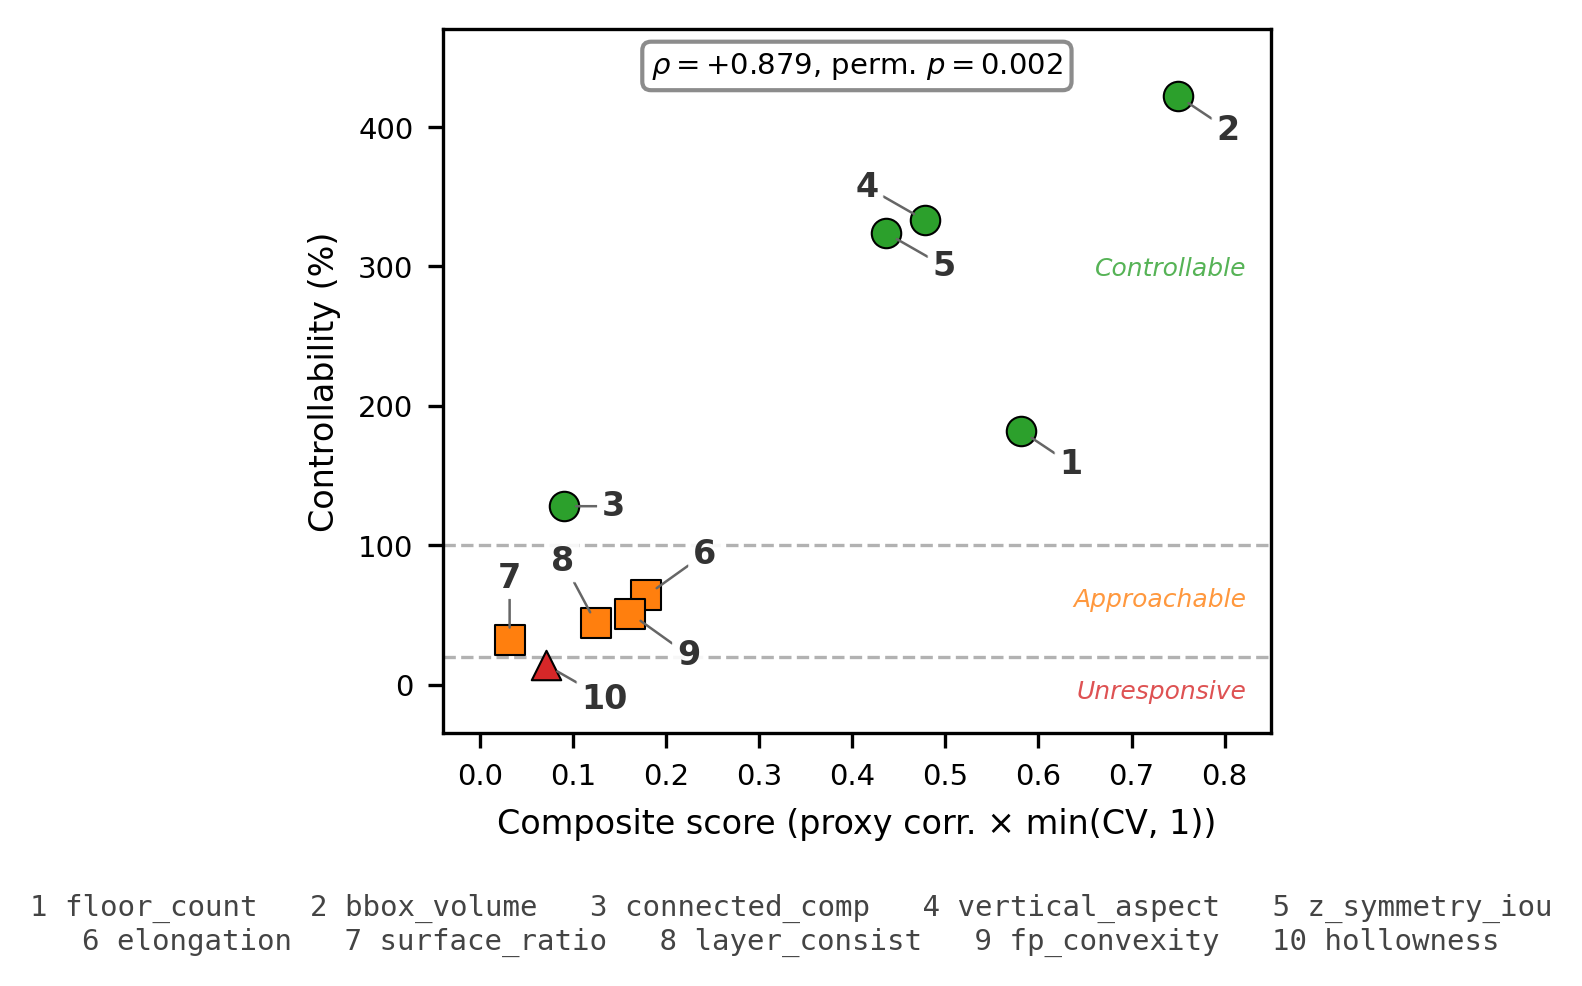
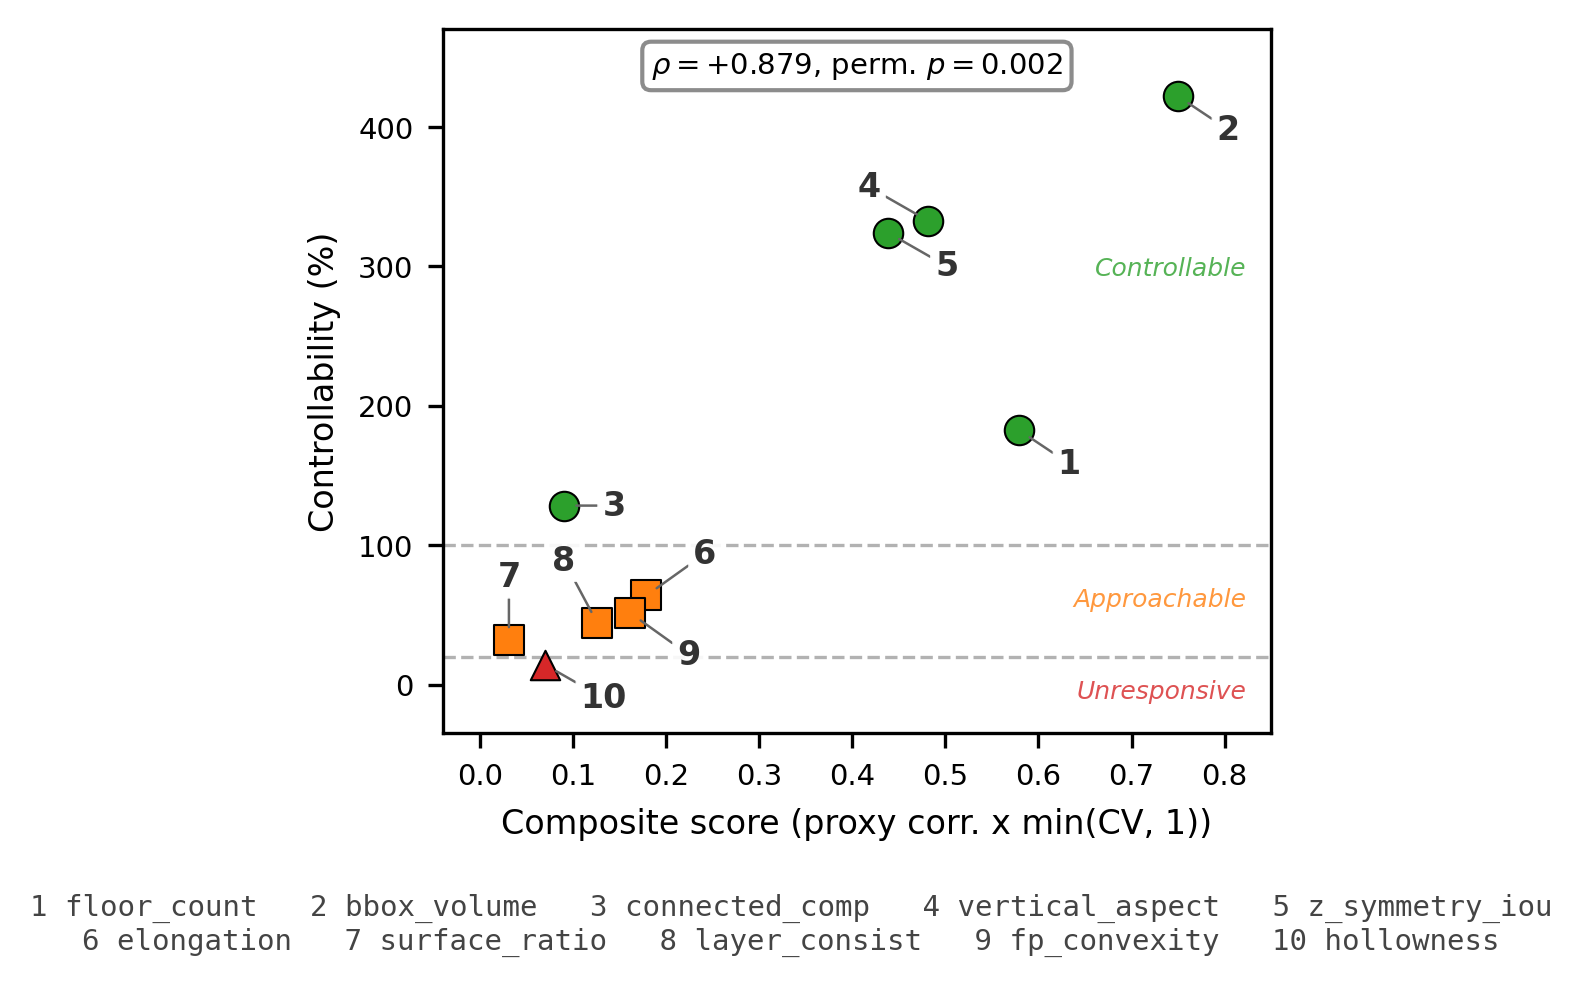
Sync camera-ready release results

diff --git a/scripts/regime_predictor.py b/scripts/regime_predictor.py
@@ -1,11 +1,11 @@
 """
-Regime Predictor: predict constraint learnability from pre-experiment features.
+Analyze how training-data features relate to constraint responsiveness.
 
-Given measurable properties of a constraint (training frequency, spatial locality,
-training variance), predict whether it will be CONTROLLABLE, APPROACHABLE, or
-UNRESPONSIVE — WITHOUT running generation experiments.
+The regime labels still come from generation experiments. The pre-generation
+features are used to test whether training signal and variation are associated
+with the observed response regimes.
 
-This transforms the regime map from a post-hoc taxonomy into a predictive framework.
+This keeps the predictor result as an association analysis rather than a deployable classifier.
 """
 
 import sys
@@ -35,7 +35,7 @@ def compute_predictor_features():
     Features:
       1. effective_frequency: How much training data supports the target condition?
          - Direct: % of data with target conditioning value
-         - Emergent: max |correlation with conditioned property| * that property's frequency
+         - Emergent: max |correlation with conditioned property| as a proxy signal
       2. locality_score: Spatial computation complexity (1=local, 2=semi-global, 3=global)
       3. training_cv: Coefficient of variation in training data
     """
@@ -123,7 +123,7 @@ def compute_predictor_features():
             _, _, count = direct_cond_map[p]
             effective_freq[p] = count / n_total
         else:
-            # Emergent: max |correlation| * correlated property's frequency
+            # Emergent: use the strongest observed proxy correlation as signal.
             max_eff = 0.0
             best_proxy = None
             for cp in conditioned_props:
@@ -200,11 +200,11 @@ def compute_predictor_features():
 
 def continuous_analysis(rows):
     """
-    Instead of predicting discrete regimes (overfits with n=7),
-    show that predictor features CONTINUOUSLY CORRELATE with controllability.
+    Instead of treating the result as a deployable discrete-regime classifier,
+    show that predictor features continuously correlate with controllability.
 
     This is the honest claim: signal strength and training variation jointly
-    predict WHERE a constraint falls on the controllability spectrum.
+    are associated with where a constraint falls on the controllability spectrum.
     The three regimes are descriptive labels for regions of this space.
     """
     print("\n" + "=" * 90)
@@ -347,7 +347,7 @@ def hierarchical_tree(rows):
     fundamentally different mechanisms, so the predictor should split on
     has_direct_cond first, then use the most relevant feature within each branch.
 
-    Direct branch:  frequency threshold -> CONTROLLABLE vs APPROACHABLE
+    Direct branch:  frequency threshold baseline on directly conditioned properties
     Emergent branch: training_cv + proxy_correlation -> CONTROLLABLE / APPROACHABLE / UNRESPONSIVE
     """
     print("\n" + "=" * 90)
@@ -371,10 +371,8 @@ def hierarchical_tree(rows):
     # ================================================================
     # Direct branch: find frequency threshold
     # ================================================================
-    # Sort by frequency: enclosure(0.024) < symmetry(0.039) < height(0.068) < n_blocks(0.117)
-    # APPROACHABLE: enclosure(0.024)
-    # CONTROLLABLE: symmetry(0.039), height(0.068), n_blocks(0.117)
-    # Threshold: between 0.024 and 0.039
+    # Sort by frequency: enclosure(0.024) < symmetry(0.039) < height(0.068) < n_blocks(0.117).
+    # All four are controllable in this experiment, so the threshold baseline is descriptive only.
 
     direct_freqs = sorted([(r["effective_frequency"], r["regime_idx"], r["property"]) for r in direct])
     print(f"\n  Direct properties sorted by frequency:")
@@ -674,9 +672,8 @@ The regime predictor uses a two-level hierarchy:
 
   Level 1: Does the property have a DIRECT conditioning signal?
 
-  YES (direct) -> split on TARGET FREQUENCY in training data
-    freq >= ~3%  -> CONTROLLABLE
-    freq <  ~3%  -> APPROACHABLE
+  YES (direct) -> target frequency baseline in training data
+    all four directly conditioned properties are CONTROLLABLE here
 
   NO (emergent) -> split on PROXY CORRELATION x TRAINING CV
     high correlation + sufficient CV -> CONTROLLABLE (strong proxy)
@@ -684,8 +681,8 @@ The regime predictor uses a two-level hierarchy:
     any correlation + low CV         -> UNRESPONSIVE (nothing to learn)
 
 Interpretation:
-  Controllability requires BOTH a learning signal AND learnable variation.
-  - Direct conditioning provides explicit signal (sufficient freq = controllable)
+  Responsiveness is associated with BOTH a learning signal AND learnable variation.
+  - Direct conditioning provides an explicit signal in this experiment
   - Without direct conditioning, the signal must come from correlation with
     conditioned properties, AND the property must actually vary in training data.
   - If training data is homogeneous for a property (low CV), the model has no
@@ -694,6 +691,11 @@ Interpretation:
 
     # Save results
     output = {
+        "metadata": {
+            "direct_frequency_source": "data/processed/structural_features.json; all 10,310 filtered builds",
+            "training_cv_source": "outputs/regime_map_results.json; fixed 200-build training sample",
+            "proxy_correlation_source": "outputs/regime_map_results.json; fixed 200-build training sample",
+        },
         "feature_table": rows,
         "correlations": {k: {kk: round(vv, 4) if isinstance(vv, float) else vv
                              for kk, vv in v.items()}

diff --git a/scripts/supplementary_analysis.py b/scripts/supplementary_analysis.py
@@ -199,16 +199,25 @@ def m1_threshold_sensitivity(regime, boot):
         marker = " <-- baseline" if u_t == 20 and c_t == 100 else ""
         print(f"  {u_t:>8} {c_t:>8} | {n_c:>3} {n_a:>3} {n_u:>3} | {', '.join(changed) if changed else '(none)'}{marker}")
 
-    # Also: CI-conservative classification
-    print(f"\n  CI-conservative classification (use CI lower bound for C, upper for U):")
-    n_conf_c = sum(1 for d in props_data.values() if d['ci_low'] > 100)
-    n_conf_u = sum(1 for d in props_data.values() if d['ci_high'] < 20)
-    n_borderline = 14 - n_conf_c - n_conf_u
+    # Also: CI-conservative classification.
+    print(f"\n  CI-conservative classification (CI lies entirely within one regime):")
+    n_conf_c = sum(1 for p, d in props_data.items() if p != 'enclosed_ratio' and d['regime'] == 'CONTROLLABLE' and d['ci_low'] > 100)
+    n_conf_a = sum(1 for p, d in props_data.items() if p != 'enclosed_ratio' and d['regime'] == 'APPROACHABLE' and d['ci_low'] >= 20 and d['ci_high'] <= 100)
+    n_conf_u = sum(1 for p, d in props_data.items() if p != 'enclosed_ratio' and d['regime'] == 'UNRESPONSIVE' and d['ci_high'] < 20)
+    n_borderline = 14 - n_conf_c - n_conf_a - n_conf_u
     print(f"    Confident CONTROLLABLE: {n_conf_c}")
+    print(f"    Confident APPROACHABLE: {n_conf_a}")
     print(f"    Confident UNRESPONSIVE: {n_conf_u}")
     print(f"    Borderline: {n_borderline}")
     borderline = [p for p, d in props_data.items()
-                  if not (d['ci_low'] > 100 or d['ci_high'] < 20)]
+                  if not (
+                      p != 'enclosed_ratio'
+                      and (
+                          (d['regime'] == 'CONTROLLABLE' and d['ci_low'] > 100)
+                          or (d['regime'] == 'APPROACHABLE' and d['ci_low'] >= 20 and d['ci_high'] <= 100)
+                          or (d['regime'] == 'UNRESPONSIVE' and d['ci_high'] < 20)
+                      )
+                  )]
     for p in borderline:
         d = props_data[p]
         print(f"      {p}: {d['controllability_pct']:.1f}% [{d['ci_low']:.1f}%, {d['ci_high']:.1f}%]")

diff --git a/scripts/test_regime_map.py b/scripts/test_regime_map.py
@@ -1,13 +1,9 @@
 """
-Constraint Learnability Regime Map — expanded taxonomy (12 properties).
+Generate and measure the 14-property constraint-learnability regime map.
 
-Original 7: height, n_blocks, symmetry_iou, enclosed_ratio, elongation, floor_count, hollowness
-New 5: bbox_volume, surface_ratio, connected_components, vertical_aspect, z_symmetry_iou
-
-The expansion increases regime map resolution from n=7 to n=12, enabling
-meaningful leave-one-out validation of the learnability predictor.
-
-No retraining needed — pure measurement on existing models.
+This script samples the fixed VQ-VAE + conditioned autoregressive transformer
+under the paper's conditioning configurations, measures structural properties
+on generated voxel grids, and writes outputs/regime_map_results.json.
 """
 
 import sys
@@ -70,7 +66,7 @@ def make_features(spec, device, n=8):
 # ============================================================
 
 def measure_all_properties(voxels):
-    """Compute all 12 structural properties for a single 32x32x32 voxel grid."""
+    """Compute all 14 structural properties for a single 32x32x32 voxel grid."""
     filled = voxels > 0
     n_blocks = int(filled.sum())
     all_props = [
@@ -159,7 +155,7 @@ def measure_all_properties(voxels):
     else:
         hollowness = 0.0
 
-    # --- New properties (expansion to 12) ---
+    # --- Additional properties ---
 
     # Bounding box volume: total spatial extent (LOCAL)
     bbox_volume = int(x_span * height * z_span) if (len(xs) > 0 and len(zs) > 0) else 0

diff --git a/scripts/bootstrap_regime_map.py b/scripts/bootstrap_regime_map.py
@@ -68,14 +68,24 @@ def bootstrap_controllability(cond_results, uncond_key='unconditioned',
         else:
             regime = "UNRESPONSIVE"
 
+        ci_confident = (
+            (regime == "CONTROLLABLE" and ci_low > 100)
+            or (regime == "APPROACHABLE" and ci_low >= 20 and ci_high <= 100)
+            or (regime == "UNRESPONSIVE" and ci_high < 20)
+        )
+        regime_confident = ci_confident and pname != "enclosed_ratio"
+
         results[pname] = {
             'controllability_pct': round(best_shift_pct, 2),
             'ci_low': round(ci_low, 2),
             'ci_high': round(ci_high, 2),
             'best_condition': best_cond,
             'regime': regime,
-            'regime_confident': ci_low > 100 or ci_high < 20,
+            'ci_confident': ci_confident,
+            'regime_confident': regime_confident,
         }
+        if pname == "enclosed_ratio" and ci_confident:
+            results[pname]['confidence_note'] = "CI is above 100%, but paper excludes this near-zero-baseline ratio from confident assignments."
 
     return results
 

diff --git a/README.md b/README.md
@@ -7,27 +7,28 @@ Code, saved experimental results, and [interactive explainer](https://crabsatell
 | Regime | Properties | Ctrl% Range | Bottleneck |
 |--------|------------|-------------|------------|
 | Controllable | 9 / 14 | >100% | None for the measured response; standard CFG works |
-| Approachable | 4 / 14 | 20--100% | Frequency floor (more data, stronger guidance, or fine-tuning) |
+| Approachable | 4 / 14 | 20--100% | Frequency floor (more data, stronger guidance, or fine-tuning may help) |
 | Unresponsive | 1 / 14 | <20% | Representation ceiling or insufficient learnable variation |
 
-Composite predictor: effective signal x min(CV, 1) correlates with controllability at **Spearman rho = 0.879** (permutation p = 0.002, n = 10 emergent properties). Neither signal alone (0.624) nor CV alone (0.636) reaches significance under the same permutation test; their product does.
+Composite predictor: effective signal x min(CV, 1) correlates with controllability at **Spearman rho = 0.879** (permutation p = 0.002, n = 10 emergent properties). Neither signal alone (0.624) nor CV alone (0.636) reaches significance under the same permutation test; their product does. This is an association from one pipeline, not a validated general predictor.
 
 ## What This Is
 
-- **Three-regime learnability map** across 14 structural properties of Minecraft buildings (10,310 filtered builds, 32^3 voxel grids, ~260 block types)
-- **VQ-VAE** (32^3 -> 8^3 latent, 2048 codebook, ~22M params) + **AR Transformer** (512d, 12 layers, 8 heads, ~55M params) with classifier-free guidance
-- **Dual bottleneck analysis**: CFG sensitivity (s=0,2,4) separates frequency-limited from representation-limited constraints
-- **Predictive framework**: composite score (signal x min(CV, 1)) predicts regime before running generation experiments
-- **Interactive explainer**: bilingual (EN/ZH) step-by-step walkthrough of the paper for non-specialist audiences
+- **Three-regime learnability map** across 14 structural properties of Minecraft buildings (10,310 filtered builds, 32^3 voxel grids, 513 remapped block tokens)
+- **VQ-VAE** (32^3 -> 8^3 latent, 2048 codebook, ~40M params) + **AR Transformer** (512d, 12 layers, 8 heads, ~40M params) with classifier-free guidance
+- **Dual bottleneck analysis**: CFG sensitivity (s=0,2,4) helps diagnose frequency floors versus representation ceilings
+- **Predictor analysis**: composite score (signal x min(CV, 1)) is tested against generated-sample responsiveness
+- **[Interactive explainer](https://crabsatellite.github.io/constraint-learnability-regime-map/)**: bilingual (EN/ZH) step-by-step walkthrough of the paper for non-specialist audiences
 
 ## Repository Structure
 
-```
+```text
 constraint-learnability/
 |-- index.html                             # Interactive paper explainer (bilingual EN/ZH)
 |-- figures/
-|   |-- scatter_predictor.png              # Composite score vs controllability (Figure 1)
-|   |-- cfg_sensitivity.png                # CFG sensitivity visualization (Figure 2)
+|   |-- scatter_predictor.png              # Composite score vs controllability
+|   |-- scatter_predictor_data.json        # Data used to draw scatter_predictor
+|   |-- cfg_sensitivity.png                # CFG sensitivity visualization
 |   `-- condition_comparison.png           # Condition comparison visualization
 |-- models/
 |   |-- vqvae.py                           # VQ-VAE (3D conv encoder-decoder, 2048 codebook)
@@ -39,14 +40,13 @@ constraint-learnability/
 |   |-- train_vqvae.py                     # VQ-VAE training (100K steps)
 |   |-- train_ar.py                        # Unconditional AR training
 |   |-- train_ar_conditioned.py            # Conditioned AR training (80K steps, CFG)
-|   |-- extract_structural_features.py     # Extract 14 structural properties from builds
-|   |-- eval_structural.py                 # Evaluate controllability across conditions
+|   |-- extract_structural_features.py     # Extract structural conditioning features
 |   |-- test_regime_map.py                 # Full regime map evaluation (5 seeds x 8 samples)
 |   |-- test_cfg_sensitivity.py            # CFG sensitivity sweep (s=0,2,4)
 |   |-- test_conditioning.py               # Per-condition generation tests
 |   |-- test_composability_ood.py          # Composability and OOD experiments
 |   |-- test_robustness.py                 # Threshold robustness analysis
-|   |-- regime_predictor.py                # Decision tree predictor + statistical analysis
+|   |-- regime_predictor.py                # Predictor statistics and association analysis
 |   |-- bootstrap_regime_map.py            # Bootstrap 95% CI computation
 |   |-- supplementary_analysis.py          # Permutation tests and robustness checks
 |   |-- generate.py                        # Generate builds from trained models
@@ -56,11 +56,11 @@ constraint-learnability/
 |   |-- visualize_structures.py            # Visualization utilities
 |   `-- legacy_block_map.py                # Minecraft legacy block ID mapping
 |-- outputs/
-|   |-- regime_map_results.json            # Table 1 generated-sample measurements
-|   |-- cfg_sensitivity_results.json       # Table 2 data (CFG s=0,2,4)
-|   |-- regime_predictor_results.json      # Predictor feature table and LOO results
+|   |-- regime_map_results.json            # Regime map samples and statistics
+|   |-- cfg_sensitivity_results.json       # CFG sensitivity data
+|   |-- regime_predictor_results.json      # Predictor feature table and statistics
 |   |-- bootstrap_results.json             # Bootstrap 95% CI analysis
-|   |-- supplementary_results.json         # Permutation tests and robustness checks
+|   |-- supplementary_results.json         # Permutation and per-seed diagnostics
 |   |-- robustness_results.json            # Threshold robustness sweep
 |   |-- composability_ood_results.json     # Composability experiment
 |   |-- sym_aug_composability_ood.json     # Symmetry-augmented composability
@@ -70,9 +70,9 @@ constraint-learnability/
 
 ## Quick Start
 
-### Option A: Reproduce analysis from saved results (~1 minute)
+### Option A: Reproduce analysis from saved results
 
-Saved result files are included in `outputs/`. They reproduce the paper tables and statistical checks without retraining:
+All saved experimental results are included in `outputs/`.
 
 ```bash
 pip install -r requirements.txt
@@ -81,9 +81,7 @@ python scripts/bootstrap_regime_map.py
 python scripts/supplementary_analysis.py
 ```
 
-`regime_predictor.py` prints both an all-property diagnostic and the branch-specific diagnostics. The paper's headline composite result is the emergent-property permutation test reported by `supplementary_analysis.py`: Spearman rho = 0.8788, permutation p = 0.0016 (rounded in the paper to rho = 0.879, p = 0.002).
-
-### Option B: Train from scratch (~24 hours on 1 GPU)
+### Option B: Train from scratch
 
 ```bash
 pip install -r requirements.txt
@@ -103,26 +101,23 @@ python scripts/test_regime_map.py
 # 5. Run CFG sensitivity analysis
 python scripts/test_cfg_sensitivity.py
 
-# 6. Fit predictor
+# 6. Fit predictor and supplementary analyses
 python scripts/regime_predictor.py
-
-# 7. Recompute bootstrap CIs and supplementary checks
 python scripts/bootstrap_regime_map.py
 python scripts/supplementary_analysis.py
 ```
-
-Training from scratch requires the raw Minecraft data under `data/raw/` and writes processed data/checkpoints that are intentionally not committed because of size. The saved `outputs/` files are the public audit surface for the reported paper numbers.
 
 ## Requirements
 
 - Python 3.10+
 - PyTorch 2.0+ with CUDA
-- ~8 GB VRAM for training
-- See [requirements.txt](requirements.txt) for full dependencies
+- GPU recommended for training and fresh generation runs
+- See [requirements.txt](requirements.txt) for dependencies
 
 ## Paper
 
 *Which Structural Constraints Are Learnable? A Regime Map for a Minecraft Voxel Generator*
+
 Alex Chengyu Li, 2026
 
 [![DOI](https://zenodo.org/badge/DOI/10.5281/zenodo.19135431.svg)](https://doi.org/10.5281/zenodo.19135431)
@@ -131,11 +126,10 @@ Alex Chengyu Li, 2026
 
 ```bibtex
 @misc{li2026regimemap,
-  author    = {Li, Alex Chengyu},
-  title     = {Which Structural Constraints Are Learnable?
-               A Regime Map for a Minecraft Voxel Generator},
-  year      = {2026},
-  note      = {Preprint}
+  author = {Li, Alex Chengyu},
+  title = {Which Structural Constraints Are Learnable? A Regime Map for a Minecraft Voxel Generator},
+  year = {2026},
+  note = {Preprint}
 }
 ```
 